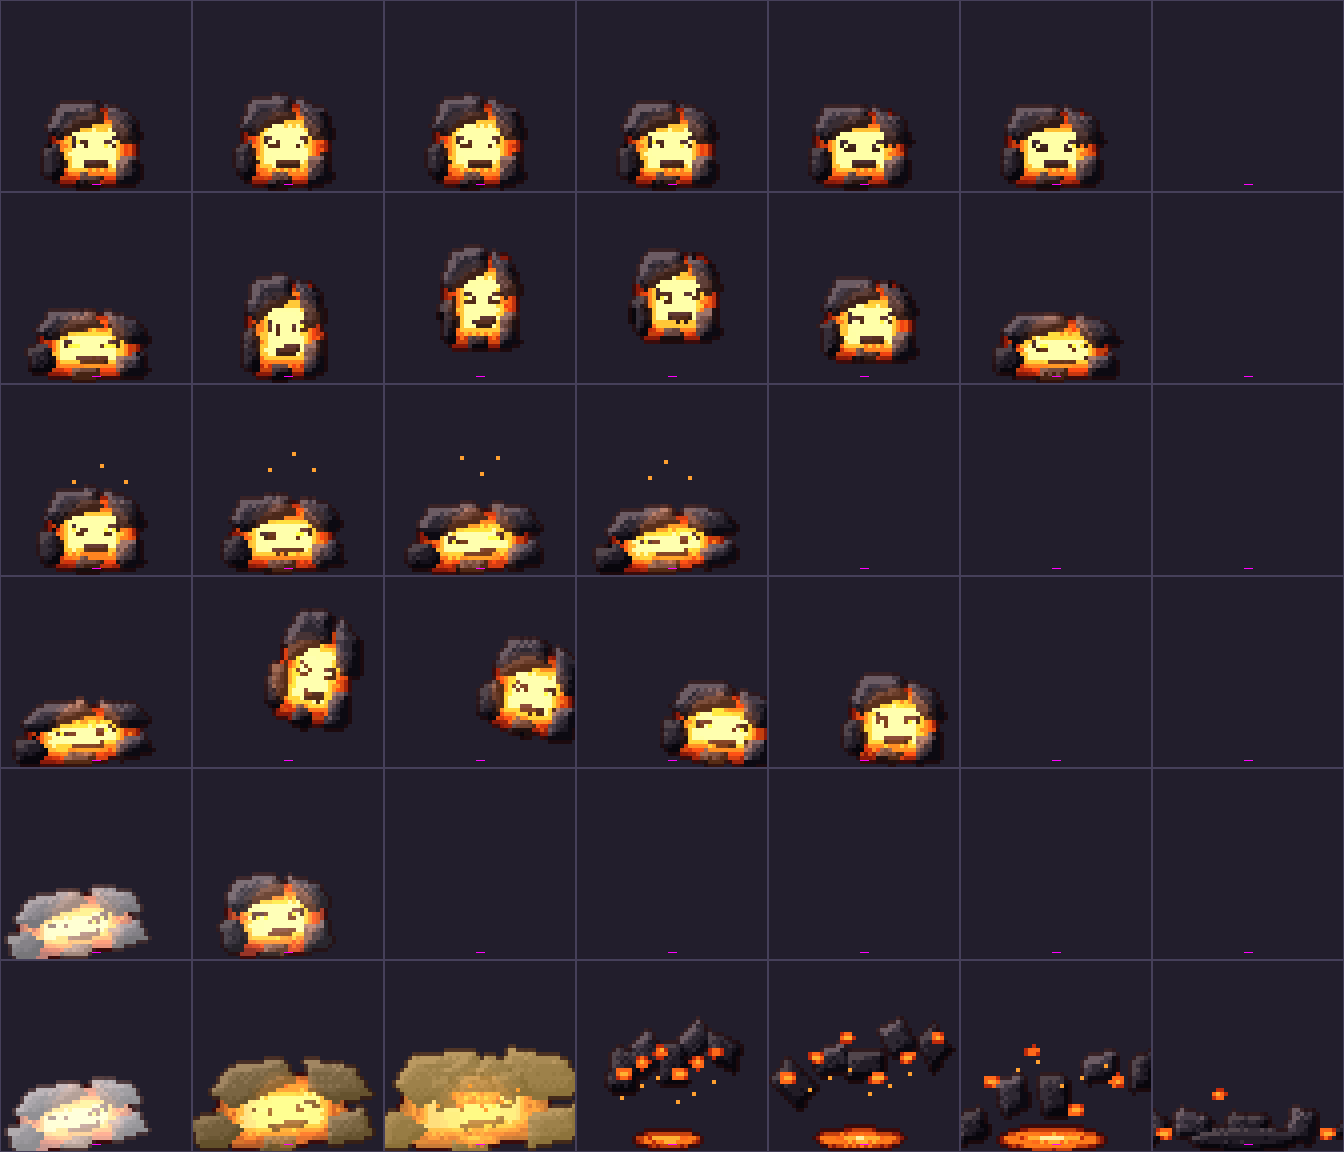
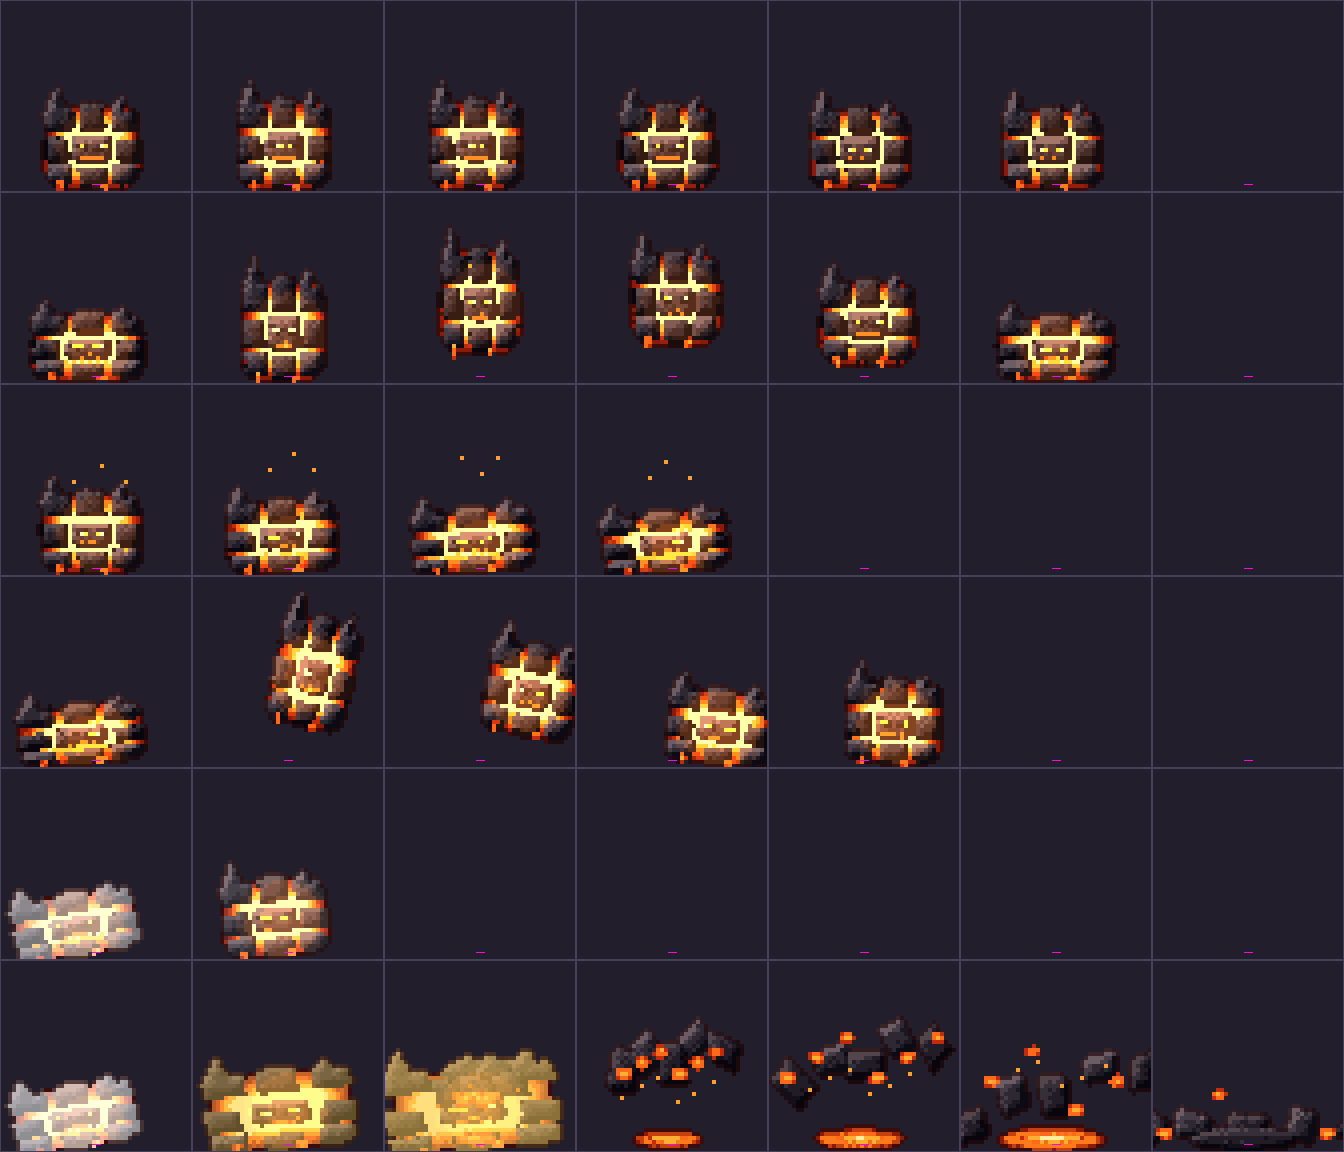
Enemigos (piloto): cubo de magma como bloque de basalto con espinas, placa facial y juntas de lava
Claude-Session: https://claude.ai/code/session_011eeWNo3MRZcztybaatA5Az

diff --git a/tools/art_enemies/en_forja.py b/tools/art_enemies/en_forja.py
@@ -46,38 +46,52 @@ def cubo_pose(a, i, n):
 
 
 def cubo_body(c, P):
+    """Cubo de magma (rediseno fase 3): bloque de basalto con corona de espinas de obsidiana, placa facial con ojos y boca
+    de lava, juntas incandescentes que se abren con 'gap' y goteo de lava. Mismas poses/anclajes que la version anterior."""
     x, y, sx, sy = P['x'], P['y'], P['sx'], P['sy']
     g = P['gap']
-    with c.at(x - 1, y, P['tilt'], sx, sy):
-        # salpicaduras de lava y goteo
-        with c.part(LAVA_O, bevel=3.0) as p:
-            p.poly([(-10, -14), (-7, -18.5), (7.5, -18.5), (10.5, -15), (11, -3), (8, 0), (-8, 0), (-11, -4)])
-        with c.part(LAVA, bevel=4.0) as p:
-            p.poly([(-8, -14), (-5, -16.5), (6, -16.5), (8.6, -14), (9, -3.5), (6.5, -1.5), (-6.5, -1.5), (-9, -4.5)])
-        # corteza: placas de basalto separadas por grietas (g las separa)
-        with c.part(BAS, line=0.4, bevel=1.8) as p:      # techo
-            p.poly([(-11, -13 - g), (-8, -19.5 - g), (1, -20 - g), (3, -15.5 - g * 0.5), (-4, -13.5), (-8, -11)])
-        with c.part(BAS, line=0.4, bevel=1.8) as p:
-            p.poly([(3.2 + g * 0.6, -19.5 - g), (9.5 + g, -17 - g * 0.6), (12 + g, -11), (7.5 + g * 0.5, -10), (5, -14)])
-        with c.part(BAS_B, line=0.4, bevel=1.8) as p:    # lado izq
-            p.poly([(-11.5 - g, -9), (-8.2 - g * 0.5, -10.5), (-6.5, -5), (-8 - g * 0.5, -0.8), (-11 - g, -2)])
-        with c.part(BAS, line=0.4, bevel=1.8) as p:      # base derecha
-            p.poly([(5.5 + g * 0.6, -6.5), (10.5 + g, -7.5), (11.5 + g, -1.0 + g * 0.3), (6.2 + g * 0.3, 0.3 + g * 0.4)])
-        with c.part(BAS_B, line=0.4, bevel=1.6) as p:
-            p.poly([(-4, 0.2 + g * 0.4), (1.5, 0.4 + g * 0.5), (2.5, -2.2), (-3, -3)])
-        # cara incandescente
-        e = P['eye']
+    e = P['eye']
+    h = 0.55 + g * 0.45                       # separacion de las juntas (la lava del nucleo asoma por ellas)
+
+    def blk(pts, cx, cy, m):
+        ox = (h if cx > 0 else -h if cx < 0 else 0) * 0.8
+        oy = (h if cy > -10 else -h) * 0.8
+        with c.part(m, line=0.4, bevel=1.7) as p:
+            p.poly([(px + ox, py + oy) for px, py in pts])
+    with c.at(x - 1, y, P['tilt'], sx * 0.93, sy * 0.95):
+        with c.part(LAVA_O, bevel=3.0) as p:                                # halo del nucleo
+            p.poly([(-12, -15), (-9, -20), (9, -20), (12, -15), (12.5, -3), (9, 0.6), (-9, 0.6), (-12.5, -3)])
+        with c.part(LAVA, bevel=4.0) as p:                                  # nucleo
+            p.poly([(-11, -15), (-8.5, -19), (8.5, -19), (11, -15), (11.5, -3), (8.5, -0.4), (-8.5, -0.4), (-11.5, -3)])
+        # fila superior: tres bloques; los extremos rematan en espinas de obsidiana
+        blk([(-11.4, -13.6), (-12.0, -17.5), (-9.0, -25.5), (-7.0, -19.4), (-4.4, -19.6), (-4.4, -13.6)], -8, -16, BAS)
+        blk([(-3.6, -13.6), (-3.6, -19.8), (-1.5, -21.0), (3.2, -20.2), (3.6, -13.6)], 0, -17, BAS_B)
+        blk([(4.4, -13.6), (4.6, -19.6), (7.4, -22.4), (8.2, -18.6), (10.6, -19.0), (11.8, -13.6)], 8, -16, BAS)
+        # franja media: bloques laterales + placa facial central
+        blk([(-11.6, -6.6), (-11.8, -12.8), (-5.8, -12.8), (-5.4, -6.6)], -8, -9, BAS_B)
+        blk([(5.4, -6.6), (5.8, -12.8), (11.8, -12.4), (11.6, -6.6)], 8, -9, BAS_B)
+        with c.part(BAS, line=0.4, bevel=1.9) as p:                         # placa facial
+            p.poly([(-5.0, -12.8), (5.0, -12.8), (5.4, -6.8), (3.4, -5.6), (-3.4, -5.6), (-5.4, -6.8)])
+        # fila inferior: tres bloques astillados
+        blk([(-11.4, -5.8), (-4.6, -5.8), (-4.8, -0.8), (-8.0, 0.0), (-11.2, -1.4)], -8, -3, BAS)
+        blk([(-3.8, -4.9), (3.8, -4.9), (4.0, -0.6), (0.8, 0.2), (-3.2, -0.2)], 0, -2, BAS_B)
+        blk([(4.6, -5.8), (11.4, -5.8), (11.2, -1.6), (8.2, -0.1), (4.8, -0.9)], 8, -3, BAS)
+        # cara: ojos en ranura + boca dentada de lava sobre la placa
         with c.part(DARK) as p:
-            p.poly([(-4.8, -11.6), (-1.2, -10.4), (-1.6, -8.4), (-5.2, -9.4)])
-            p.poly([(2.4, -10.4), (6.2, -11.8), (6.4, -9.4), (3.0, -8.6)])
+            p.poly([(-4.4, -11.2), (-0.6, -10.4), (-0.8, -8.6), (-4.2, -9.4)])
+            p.poly([(0.6, -10.4), (4.4, -11.2), (4.2, -9.4), (0.8, -8.6)])
         with c.part(HOTEYE) as p:
-            p.poly([(-4.0, -10.6), (-1.8, -9.9), (-2.0, -9.0), (-4.2, -9.6)])
-            p.poly([(3.0, -9.9), (5.6, -10.8), (5.6, -9.6), (3.2, -9.2)])
-        with c.part(DARK) as p:
-            p.poly([(-2.5, -6.0), (4.5, -6.4), (4.0, -4.6), (-1.6, -4.4)])
-            for k in range(3):
-                p.rect(-1.5 + k * 2.0, -6.0, -0.8 + k * 2.0, -4.0)
-    c.glow(x, y - 9 * sy, 11, '#ff7a20', 0.18 + 0.3 * P['glow'])
+            q = 0.5 + 0.5 * e
+            p.poly([(-3.8, -10.6), (-1.0, -9.9), (-1.1, -9.0 - 0.2 * q), (-3.7, -9.6)])
+            p.poly([(1.0, -9.9), (3.8, -10.6), (3.7, -9.6), (1.1, -9.0 - 0.2 * q)])
+        with c.part(LAVA, bevel=1.0) as p:
+            p.poly([(-3.2, -7.4), (-1.6, -6.6), (0.0, -7.6), (1.6, -6.6), (3.2, -7.4), (2.6, -5.9), (0.0, -6.4), (-2.6, -5.9)])
+        # goteo de lava bajo el borde
+        dr = 0.5 + 0.5 * math.sin(P['glow'] * 6)
+        with c.part(LAVA, bevel=1.6) as p:
+            p.poly([(-9.2, -1.0), (-7.4, -1.0), (-7.8, 1.0 + dr), (-8.4, 2.0 + dr), (-9.0, 1.0 + dr)])
+            p.ell(3.4, 0.6, 1.2, 1.0)
+    c.glow(x, y - 9 * sy, 12, '#ff7a20', 0.18 + 0.3 * P['glow'])
 
 
 def draw_cubo(c, a, i, n):
